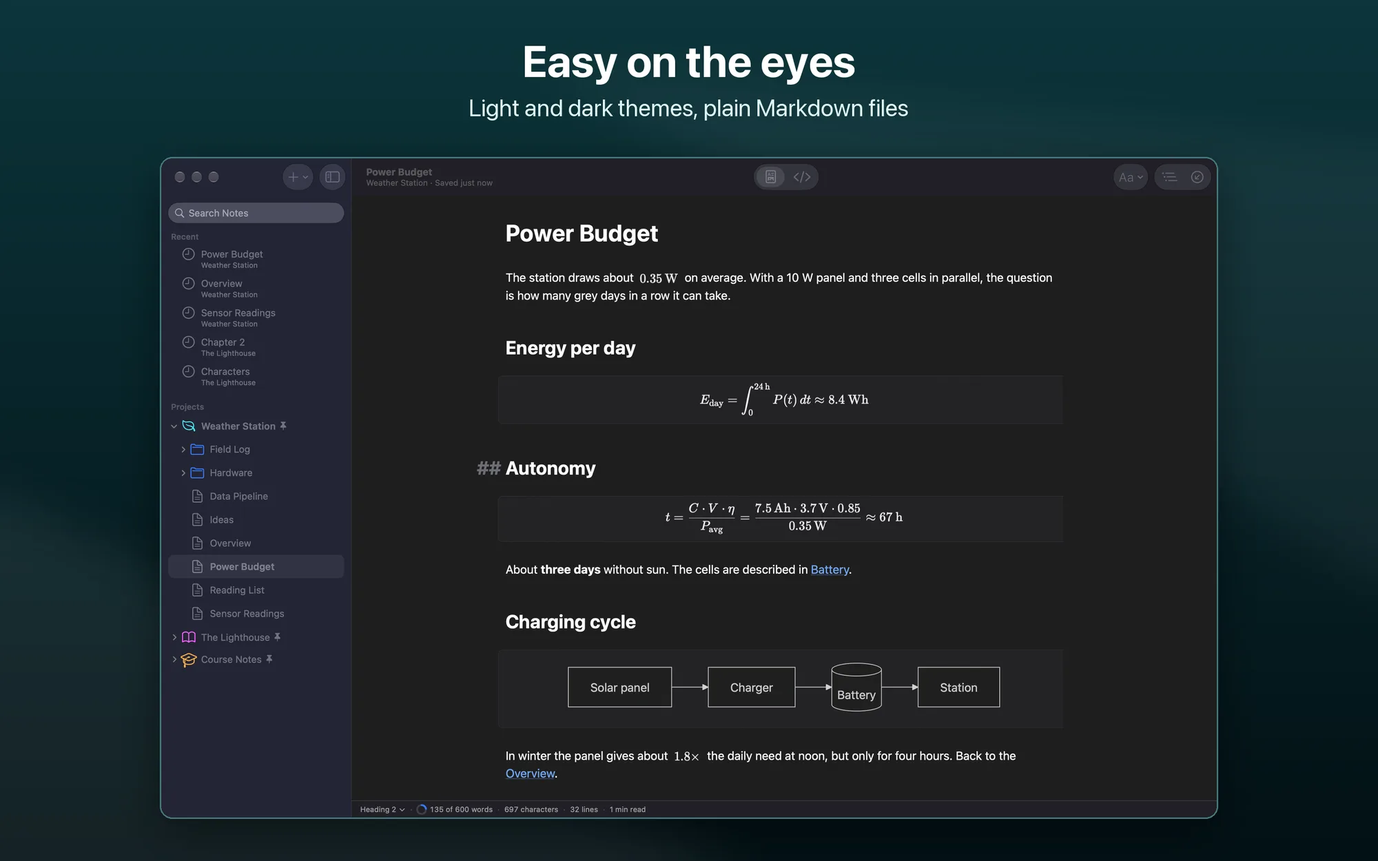
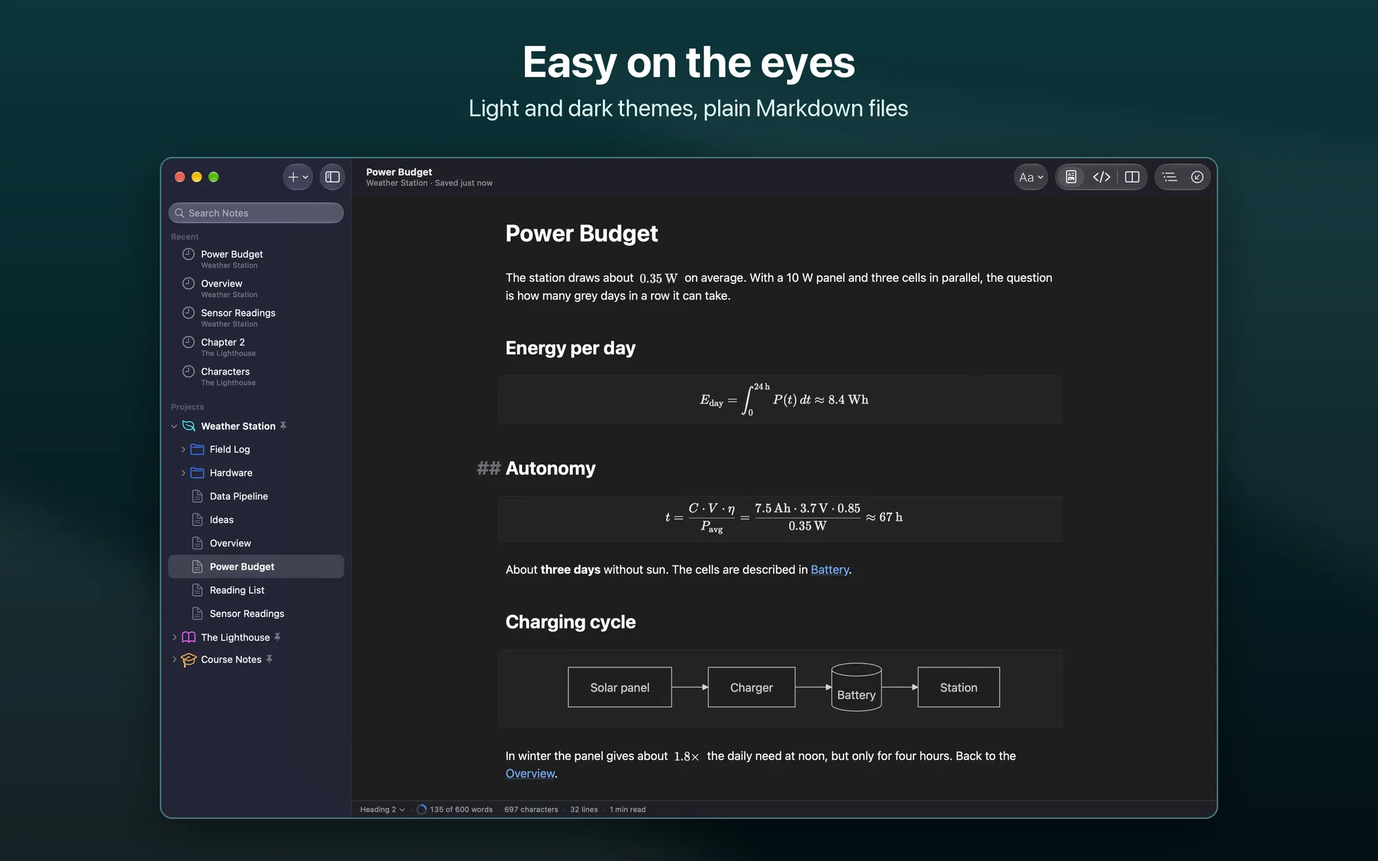
feat(charta): selettore della vista, benvenuto, tasto destro e screenshot nuovi
Pagine e documentazione allineate agli ultimi commit dell'app: selettore
WYSIWYG, codice, codice e anteprima; finestra di benvenuto sul Mac;
avviso per i file cambiati da altre app; menu del tasto destro; barra di
iPhone e iPad con il menu Altro. Screenshot di Mac, iPhone e iPad rifatti.

diff --git a/src/data/docs/charta/formato-tabelle-e-scrittura.md b/src/data/docs/charta/formato-tabelle-e-scrittura.md
@@ -10,7 +10,7 @@ Ogni comando scrive Markdown nel testo: puoi sempre vedere e correggere i segni 
 
 ## Formato
 
-Sul Mac nel menu **Formato**, su iPhone e iPad nel menu con il simbolo «Aa» della barra e nella [barra sopra la tastiera](/progetti/charta/docs/iphone-e-ipad).
+Sul Mac nel menu **Formato** della barra dei menu e della barra della finestra, su iPhone e iPad nel menu **Formato** della barra e nella [barra sopra la tastiera](/progetti/charta/docs/iphone-e-ipad).
 
 - **Grassetto**, **Corsivo**, **Barrato**, **Codice**, **Evidenziato**: con una selezione mettono o tolgono i segni attorno; senza selezione valgono per la parola sotto il cursore, o lasciano i segni vuoti con il cursore in mezzo.
 - **Titolo**: da **Testo normale** a **Titolo 6**, sulle righe selezionate.
@@ -21,7 +21,7 @@ Le scorciatoie sono in [Scorciatoie da tastiera](/progetti/charta/docs/scorciato
 
 ## Inserisci
 
-Sul Mac nel menu **Inserisci**, su iPhone e iPad nel menu «Aa» e nel pulsante **+** sopra la tastiera:
+Sul Mac nel menu **Inserisci** (e nel menu **Formato** della barra), su iPhone e iPad nel menu **Formato** e nel pulsante **+** sopra la tastiera:
 
 - **Link**: `[testo](url)`. Se hai selezionato un indirizzo, diventa la destinazione e il cursore va nel testo.
 - **Collegamento a una nota**: `[[…]]`, con le proposte delle note della cartella.
@@ -30,6 +30,19 @@ Sul Mac nel menu **Inserisci**, su iPhone e iPad nel menu «Aa» e nel pulsante 
 - **Blocco di codice**, **Formula**, **Diagramma Mermaid**: attorno alle righe selezionate o vuoti al cursore.
 - **Nota a piè di pagina**: il richiamo `[^n]` al cursore e la nota in fondo al documento, con il cursore nella nota.
 - **Separatore**: una riga `---`.
+
+## Il menu del tasto destro
+
+Un clic con il tasto destro nel testo (su iPhone e iPad il menu che compare toccando il testo o selezionandolo) mostra prima i comandi di Charta per ciò che sta sotto il cursore, poi quelli del sistema:
+
+- **su un collegamento `[[nota]]`**: **Apri «…»**, **Collegamenti in entrata** e **Rinomina la nota…** (nelle cartelle), sul Mac **Apri in una finestra a parte**; se la nota non esiste, **Crea la nota «…»**. Poi **Copia collegamento** e **Togli il collegamento**;
+- **su un link**: **Apri link** (o **Vai al titolo** per un link interno), **Copia indirizzo**, **Modifica link…**, che seleziona l'indirizzo, e **Togli il collegamento**, che lascia il testo;
+- **con del testo selezionato**, in una cartella: **Crea nota dalla selezione** sposta il testo in una nota nuova accanto e lascia al suo posto il collegamento; **Collega a una nota…** trasforma la selezione in `[[|testo]]` e propone le note; **Cerca nella cartella** la cerca in tutte le note;
+- **in una tabella**: i sottomenu **Riga** (**Inserisci riga sopra**, **Inserisci riga sotto**, **Elimina riga**) e **Colonna** (inserisci a sinistra o a destra, elimina, allinea), e **Formatta tabella**;
+- **in una voce da spuntare**: **Spunta** o **Togli la spunta**, **Spunta tutte** e **Togli tutte le spunte** (anche le voci annidate);
+- **su un titolo**: **Copia collegamento al titolo** (un `[[nota#titolo]]` nelle cartelle, un link `#titolo` in un documento) e **Sposta la sezione in su** o **in giù**, che scambia il titolo e il suo testo con la sezione vicina dello stesso livello;
+- **in un blocco di codice**: **Copia il codice** e il sottomenu **Lingua**; **in una formula o un diagramma**: **Copia il sorgente**; **su un richiamo di nota**: **Vai alla nota a piè di pagina**;
+- **nel testo normale**: i sottomenu **Formato** e **Trasforma in** (testo, titoli, elenchi, citazione).
 
 ## Elenchi e citazioni
 
@@ -46,7 +59,7 @@ Con il cursore in una tabella:
 - **Sposta riga in su/in giù** e **Sposta colonna a sinistra/a destra**, sul Mac con <kbd>⌥</kbd> <kbd>⌘</kbd> e le frecce;
 - **Allinea a sinistra**, **al centro**, **a destra** per la colonna del cursore (dal menu della barra di stato; sul Mac anche in **Formato › Tabella**).
 
-Sul Mac i comandi sono in **Formato › Tabella** e nel menu della barra di stato; su iPhone e iPad nel menu **Modifica tabella** sopra la tastiera e nel menu della barra di stato.
+Sul Mac i comandi sono in **Formato › Tabella**, nel menu della barra di stato e nel tasto destro; su iPhone e iPad nel menu **Modifica tabella** sopra la tastiera, nel menu **Formato** della barra (con il cursore in una tabella), nel menu della barra di stato e nel menu del testo.
 
 ## Incollare
 

diff --git a/src/data/en/docs/charta/formatting-tables-and-writing.md b/src/data/en/docs/charta/formatting-tables-and-writing.md
@@ -10,7 +10,7 @@ Every command writes Markdown into the text: you can always see and fix the mark
 
 ## Format
 
-On the Mac in the **Format** menu; on iPhone and iPad in the "Aa" menu of the toolbar and in the [bar above the keyboard](/en/projects/charta/docs/iphone-and-ipad).
+On the Mac in the **Format** menu of the menu bar and of the window's toolbar; on iPhone and iPad in the toolbar's **Format** menu and in the [bar above the keyboard](/en/projects/charta/docs/iphone-and-ipad).
 
 - **Bold**, **Italic**, **Strikethrough**, **Code**, **Highlight**: with a selection they add or remove the marks around it; without one they apply to the word under the cursor, or leave empty marks with the cursor in between.
 - **Heading**: from **Body Text** to **Heading 6**, on the selected lines.
@@ -21,7 +21,7 @@ Shortcuts are listed in [Keyboard shortcuts](/en/projects/charta/docs/keyboard-s
 
 ## Insert
 
-On the Mac in the **Insert** menu; on iPhone and iPad in the "Aa" menu and in the **+** button above the keyboard:
+On the Mac in the **Insert** menu (and in the toolbar's **Format** menu); on iPhone and iPad in the **Format** menu and in the **+** button above the keyboard:
 
 - **Link**: `[text](url)`. If you selected an address, it becomes the destination and the cursor moves to the text.
 - **Link to a Note**: `[[…]]`, with suggestions from the folder's notes.
@@ -30,6 +30,19 @@ On the Mac in the **Insert** menu; on iPhone and iPad in the "Aa" menu and in th
 - **Code Block**, **Formula**, **Mermaid Diagram**: around the selected lines, or empty at the cursor.
 - **Footnote**: the `[^n]` reference at the cursor and the note at the end of the document, with the cursor in the note.
 - **Divider**: a `---` line.
+
+## The right-click menu
+
+Right-clicking in the text (on iPhone and iPad, the menu that appears when you tap or select text) shows Charta's commands for what's under the cursor first, then the system's:
+
+- **on a `[[note]]` link**: **Open "…"**, **Backlinks** and **Rename Note…** (in folders), on the Mac **Open in a Separate Window**; if the note doesn't exist, **Create Note "…"**. Then **Copy Link** and **Remove Link**;
+- **on a link**: **Open Link** (or **Go to Heading** for an internal link), **Copy Address**, **Edit Link…**, which selects the address, and **Remove Link**, which keeps the text;
+- **with text selected**, in a folder: **New Note from Selection** moves the text into a new note next to this one and leaves the link in its place; **Link to a Note…** turns the selection into `[[|text]]` and suggests notes; **Search in Folder** searches every note for it;
+- **in a table**: the **Row** (**Insert Row Above**, **Insert Row Below**, **Delete Row**) and **Column** (insert left or right, delete, align) submenus, and **Format Table**;
+- **in a checklist item**: **Check** or **Uncheck**, **Check All** and **Uncheck All** (nested items included);
+- **on a heading**: **Copy Link to Heading** (a `[[note#heading]]` in folders, a `#heading` link in a document) and **Move Section Up** or **Down**, which swaps the heading and its text with the neighboring section of the same level;
+- **in a code block**: **Copy Code** and the **Language** submenu; **in math or a diagram**: **Copy Source**; **on a footnote reference**: **Go to Footnote**;
+- **in plain text**: the **Format** and **Turn Into** submenus (text, headings, lists, quote).
 
 ## Lists and quotes
 
@@ -46,7 +59,7 @@ With the cursor in a table:
 - **Move Row Up/Down** and **Move Column Left/Right**, on the Mac with <kbd>⌥</kbd> <kbd>⌘</kbd> and the arrow keys;
 - **Align Left**, **Align Center**, **Align Right** for the cursor's column (from the status bar menu; on the Mac also in **Format › Table**).
 
-On the Mac the commands are in **Format › Table** and in the status bar menu; on iPhone and iPad in the **Edit Table** menu above the keyboard and in the status bar menu.
+On the Mac the commands are in **Format › Table**, in the status bar menu and in the right-click menu; on iPhone and iPad in the **Edit Table** menu above the keyboard, in the toolbar's **Format** menu (with the cursor in a table), in the status bar menu and in the text menu.
 
 ## Pasting
 

diff --git a/src/data/docs/charta/wysiwyg-ed-editor-di-codice.md b/src/data/docs/charta/wysiwyg-ed-editor-di-codice.md
@@ -28,17 +28,19 @@ L'editor di codice mostra il Markdown così com'è, in un carattere a spaziatura
 
 - i colori della sintassi, anche dentro i blocchi di codice di una trentina di linguaggi;
 - i numeri di riga e la riga corrente evidenziata (si spengono in **Impostazioni › Editor**);
-- l'**anteprima**, che si dispone in tre modi: **Solo editor**, **Editor e anteprima** affiancati, **Solo anteprima**.
+- l'**anteprima**, accanto al testo (**Codice e anteprima**) o da sola (**Solo anteprima**).
 
-Sul Mac i comandi sono nel menu **Vista**: **Mostra anteprima affiancata** (<kbd>⌥</kbd> <kbd>⌘</kbd> <kbd>P</kbd>) e **Solo anteprima** (<kbd>⌥</kbd> <kbd>⇧</kbd> <kbd>⌘</kbd> <kbd>P</kbd>). Il divisore tra editor e anteprima si trascina. Su iPhone l'anteprima sta sotto il testo, su iPad accanto; la disposizione si sceglie dal pulsante con l'occhio nella barra.
+Sul Mac i comandi sono anche nel menu **Vista**: **Mostra anteprima affiancata** (<kbd>⌥</kbd> <kbd>⌘</kbd> <kbd>P</kbd>) e **Solo anteprima** (<kbd>⌥</kbd> <kbd>⇧</kbd> <kbd>⌘</kbd> <kbd>P</kbd>); su iPhone e iPad **Solo anteprima** è nel menu **Altro** (…) della barra. Il divisore tra editor e anteprima si trascina. Su iPhone l'anteprima sta sotto il testo, su iPad accanto.
 
 Con **Scorrimento sincronizzato** attivo, testo e anteprima scorrono insieme in entrambe le direzioni. Sul Mac un doppio clic su un blocco dell'anteprima porta il cursore alla sua riga nel testo. Nell'anteprima si spuntano anche le caselle, e i collegamenti `[[nota]]` aprono la nota.
 
 L'anteprima usa uno dei tre stili di **Impostazioni › Anteprima › Stile**: **GitHub**, **Carta** (con grazie, titoli centrati, per i testi lunghi) e **Compatto**. Lo stesso stile vale per l'esportazione in HTML e PDF. L'HTML scritto nei documenti viene mostrato senza script.
 
-## Passare da un modo all'altro
+## Il selettore della vista
 
-<kbd>⌘</kbd> <kbd>E</kbd> (anche su iPad con la tastiera) o il pulsante dei due modi nella barra. Il cursore resta nello stesso punto del testo. Il modo predefinito si sceglie in **Impostazioni › Generali › Apri i documenti in**; in una cartella, le [impostazioni del progetto](/progetti/charta/docs/cartelle-e-note-collegate) possono sceglierne un altro per la prima nota.
+Il selettore della vista ha tre scelte: **WYSIWYG**, **Editor di codice** e **Codice e anteprima**. Sta a destra nella barra in alto, come tre icone; su iPhone è nel menu **Altro** (…). Con **Impostazioni › Generali › Selettore della vista** › **Nella barra di stato** passa in basso a destra, con le parole brevi **WYSIWYG**, **Codice** e **Affiancati** (su iPhone un menu). In **Solo anteprima** il selettore non segna nessuna scelta.
+
+<kbd>⌘</kbd> <kbd>E</kbd> (anche su iPad con la tastiera) passa dal WYSIWYG all'editor di codice e ritorno, e riprende la disposizione dell'anteprima che avevi. Il cursore resta nello stesso punto del testo. Il modo predefinito si sceglie in **Impostazioni › Generali › Apri i documenti in**; in una cartella, le [impostazioni del progetto](/progetti/charta/docs/cartelle-e-note-collegate) possono sceglierne un altro per la prima nota.
 
 ## Struttura dei titoli e collegamenti in entrata
 
@@ -51,4 +53,5 @@ In fondo alla finestra:
 - a sinistra il **tipo di blocco al cursore** (Testo, Titolo 2, Tabella, Codice…), con un menu che cambia: titoli, elenchi e citazione per il testo, i comandi per le tabelle, la lingua per i blocchi di codice;
 - l'**obiettivo di parole** o il conteggio delle parole (vedi [Formato, tabelle e scrittura](/progetti/charta/docs/formato-tabelle-e-scrittura));
 - caratteri, righe e minuti di lettura (su iPhone solo parole e tempo di lettura);
-- nell'editor di codice con l'anteprima, l'interruttore dello scorrimento sincronizzato.
+- nell'editor di codice con l'anteprima, l'interruttore dello scorrimento sincronizzato;
+- a destra, se l'hai scelto, il selettore della vista.

diff --git a/src/data/en/docs/charta/wysiwyg-and-code-editor.md b/src/data/en/docs/charta/wysiwyg-and-code-editor.md
@@ -28,17 +28,19 @@ The code editor shows the Markdown itself, in a monospaced font, with:
 
 - syntax colors, including inside code blocks in about thirty languages;
 - line numbers and the current line highlighted (turn them off in **Settings › Editor**);
-- the **preview**, in three layouts: **Editor Only**, **Editor and Preview** side by side, **Preview Only**.
+- the **preview**, beside the text (**Code and Preview**) or on its own (**Preview Only**).
 
-On the Mac the commands are in the **View** menu: **Show Side-by-Side Preview** (<kbd>⌥</kbd> <kbd>⌘</kbd> <kbd>P</kbd>) and **Preview Only** (<kbd>⌥</kbd> <kbd>⇧</kbd> <kbd>⌘</kbd> <kbd>P</kbd>). Drag the divider between editor and preview to resize them. On iPhone the preview sits below the text, on iPad beside it; choose the layout from the eye button in the toolbar.
+On the Mac the commands are also in the **View** menu: **Show Side-by-Side Preview** (<kbd>⌥</kbd> <kbd>⌘</kbd> <kbd>P</kbd>) and **Preview Only** (<kbd>⌥</kbd> <kbd>⇧</kbd> <kbd>⌘</kbd> <kbd>P</kbd>); on iPhone and iPad **Preview Only** is in the toolbar's **More** (…) menu. Drag the divider between editor and preview to resize them. On iPhone the preview sits below the text, on iPad beside it.
 
 With **Synchronized Scrolling** on, text and preview scroll together both ways. On the Mac, double-clicking a block in the preview moves the cursor to its line in the text. You can also check boxes in the preview, and `[[note]]` links open the note.
 
 The preview uses one of the three styles in **Settings › Preview › Style**: **GitHub**, **Paper** (serif, centered headings, for long texts) and **Compact**. The same style is used when exporting to HTML and PDF. HTML written in documents is shown without scripts.
 
-## Switching modes
+## The view switcher
 
-<kbd>⌘</kbd> <kbd>E</kbd> (also on iPad with a keyboard) or the two-mode button in the toolbar. The cursor stays at the same place in the text. The default mode is set in **Settings › General › Open documents in**; in a folder, the [project settings](/en/projects/charta/docs/folders-and-linked-notes) can choose another one for the first note.
+The view switcher has three choices: **WYSIWYG**, **Code Editor** and **Code and Preview**. It sits on the right of the toolbar, as three icons; on iPhone it's in the **More** (…) menu. With **Settings › General › View Switcher** › **In the Status Bar** it moves to the bottom right, with the short words **WYSIWYG**, **Code** and **Side by Side** (a menu on iPhone). In **Preview Only** the switcher marks no choice.
+
+<kbd>⌘</kbd> <kbd>E</kbd> (also on iPad with a keyboard) switches between WYSIWYG and the code editor, and brings back the preview layout you had. The cursor stays at the same place in the text. The default mode is set in **Settings › General › Open documents in**; in a folder, the [project settings](/en/projects/charta/docs/folders-and-linked-notes) can choose another one for the first note.
 
 ## Heading outline and backlinks
 
@@ -51,4 +53,5 @@ At the bottom of the window:
 - on the left, the **block type at the cursor** (Text, Heading 2, Table, Code…), with a menu that changes: headings, lists and quote for text, table commands for tables, the language for code blocks;
 - the **word goal** or the word count (see [Formatting, tables and writing](/en/projects/charta/docs/formatting-tables-and-writing));
 - characters, lines and reading time (on iPhone only words and reading time);
-- in the code editor with the preview, the synchronized scrolling switch.
+- in the code editor with the preview, the synchronized scrolling switch;
+- on the right, if you chose it, the view switcher.

diff --git a/src/data/docs/charta/iphone-e-ipad.md b/src/data/docs/charta/iphone-e-ipad.md
@@ -19,12 +19,14 @@ I file `.md` si aprono anche toccandoli nell'app File. Nella finestra di un docu
 
 ## La barra della finestra
 
-- il pulsante dei due modi, **WYSIWYG** ed **Editor di codice**;
-- **Aa**: il menu **Formato**, con stili, titoli, elenchi, inserimenti e i comandi delle tabelle;
-- l'occhio, menu **Vista**: la disposizione dell'anteprima (**Solo editor**, **Editor e anteprima**, **Solo anteprima**), **Scorrimento sincronizzato**, **Struttura**, le esportazioni e **Stampa…**;
-- nelle cartelle, **Collegamenti in entrata**.
+A destra del titolo, nello stesso ordine del Mac:
 
-Le **Impostazioni** sono nel menu della barra di un documento e nel menu **Altro** (…) di una cartella, accanto a **Grafo delle note**, **Nuova cartella** e **Ordina per**.
+- **Formato**: stili, titoli, elenchi, inserimenti e, con il cursore in una tabella, i comandi delle tabelle;
+- su iPad, il **selettore della vista**: **WYSIWYG**, **Editor di codice**, **Codice e anteprima** (se non l'hai spostato nella barra di stato);
+- su iPad, **Struttura**; nelle cartelle, **Collegamenti in entrata**;
+- **Altro** (…): **Solo anteprima**, **Scorrimento sincronizzato** (nell'editor di codice), le esportazioni, **Stampa…** e, nei documenti, **Impostazioni**. Su iPhone, dove c'è meno posto, ci sono anche il selettore della vista e **Struttura**.
+
+Nelle cartelle le **Impostazioni** sono nel menu **Altro** (…) della barra laterale, accanto a **Grafo delle note**, **Nuova cartella** e **Ordina per**.
 
 Su iPhone l'anteprima sta sotto il testo e la struttura e i collegamenti in entrata si aprono in un foglio; su iPad l'anteprima sta accanto e la barra laterale resta affiancata al testo.
 
@@ -41,7 +43,7 @@ Quando scrivi, sopra la tastiera compaiono, da sinistra:
 
 Mentre scrivi un collegamento `[[…`, la barra mostra al loro posto le note (o i titoli, dopo `#`) che corrispondono: un tocco completa il collegamento.
 
-Con del testo selezionato, il menu di modifica ha anche **Formato** (grassetto, corsivo, barrato, codice, link); su un link c'è **Apri link**.
+Il menu che compare toccando o selezionando il testo ha prima i comandi di Charta per ciò che sta sotto il cursore, gli stessi del tasto destro sul Mac: collegamenti, tabelle, voci da spuntare, titoli, codice, **Formato** e **Trasforma in**. Vedi [Formato, tabelle e scrittura](/progetti/charta/docs/formato-tabelle-e-scrittura).
 
 ## Con una tastiera esterna
 
@@ -56,12 +58,12 @@ Tieni premuto <kbd>⌘</kbd> su iPad per vedere l'elenco.
 
 | | Mac | iPhone e iPad |
 |---|---|---|
-| Menu Formato e Inserisci con scorciatoie | Sì | Menu «Aa» e barra sopra la tastiera |
+| Finestra di benvenuto | Sì | Schermata iniziale |
+| Menu Formato e Inserisci con scorciatoie | Sì | Menu Formato della barra e barra sopra la tastiera |
 | Modalità Focus e Macchina da scrivere | Sì | No |
 | Documenti in schede | Sì | No |
 | Ingrandisci e riduci testo da tastiera | Sì | Dimensione nelle Impostazioni |
 | Evidenzia la riga corrente (opzione) | Sì | Sempre attiva |
-| Ricarica le note cambiate da altre app (opzione) | Sì | Sempre attiva |
 | Copia collegamento [[…]] e Mostra nel Finder | Sì | No |
 | Immagini incollate in un documento aperto da solo | Sì, dopo il permesso sulla cartella | Solo nelle cartelle |
 | Esportazione | Pannello di salvataggio | Foglio di condivisione |

diff --git a/src/data/projects/charta.md b/src/data/projects/charta.md
@@ -21,15 +21,17 @@ Charta è un editor Markdown per Mac, iPhone e iPad che ti fa scrivere lo stesso
 ## Funzionalità principali
 
 - **WYSIWYG**: titoli, grassetto, corsivo, link ed elenchi si vedono formattati; i segni compaiono solo dove c'è il cursore; tabelle, formule, diagrammi e immagini sono disegnati nel testo e le caselle delle liste di cose da fare si spuntano con un clic o un tocco
-- **Editor di codice con anteprima**: colori della sintassi, numeri di riga e riga corrente evidenziata; anteprima affiancata, solo editor o solo anteprima, con lo scorrimento sincronizzato. Sul Mac un doppio clic nell'anteprima porta alla riga del testo
+- **Editor di codice con anteprima**: colori della sintassi, numeri di riga e riga corrente evidenziata; un selettore della vista passa tra WYSIWYG, codice e codice con l'anteprima accanto, con lo scorrimento sincronizzato. Sul Mac un doppio clic nell'anteprima porta alla riga del testo
 - **Formule e diagrammi**: formule LaTeX nel testo e a parte, disegnate con KaTeX, e diagrammi Mermaid, inclusi nell'app e senza bisogno di rete
 - **Markdown esteso**: tabelle, voci da spuntare, note a piè di pagina, front matter YAML, testo evidenziato, sommario `[TOC]`, citazioni speciali come `> [!NOTE]` e codice colorato in una trentina di linguaggi
 - **Note collegate**: una cartella si apre come progetto, con l'albero delle note e la ricerca nel testo di tutte; collegamenti `[[nota]]` completati mentre scrivi, collegamenti in entrata, link aggiornati quando rinomini una nota e grafo delle note
 - **Progetti**: progetti fissati e note recenti, ciascun progetto con il suo nome, colore e simbolo; Vai alla nota (<kbd>⌘</kbd> <kbd>T</kbd>) apre qualsiasi nota per nome
 - **Trova e sostituisci** in tutta la cartella, anche con parole intere ed espressioni regolari
+- **Tasto destro**: comandi per ciò che sta sotto il cursore, come aprire o rinominare una nota collegata, creare una nota dalla selezione, aggiungere righe e colonne, spuntare tutte le voci o spostare una sezione
+- **File cambiati da altre app**: Charta avvisa e chiede se ricaricare o tenere la versione aperta
 - **Scrivere più in fretta**: Invio continua gli elenchi, Tab passa alla cella successiva di una tabella, il testo copiato da una pagina web diventa Markdown, le immagini incollate o trascinate si salvano accanto alla nota; obiettivo di parole salvato nel file, conteggio delle parole e tempo di lettura
 - **Esporta e stampa**: HTML, PDF, Word (DOCX) ed EPUB, con lo stile dell'anteprima (GitHub, Carta o Compatto); in Word ed EPUB formule e diagrammi diventano immagini
-- **Solo sul Mac**: menu Formato e Inserisci con le scorciatoie da tastiera, Modalità Focus e Macchina da scrivere, documenti in schede
+- **Solo sul Mac**: finestra di benvenuto con progetti e documenti recenti, menu Formato e Inserisci con le scorciatoie da tastiera, Modalità Focus e Macchina da scrivere, documenti in schede
 - **Solo su iPhone e iPad**: barra sopra la tastiera con formato, elenchi, link, rientri e un menu per inserire tabelle, codice, formule e diagrammi; esportazioni condivise con AirDrop, Mail o File
 - **Privata**: nessun account e nessun dato raccolto, i testi restano sul dispositivo; interfaccia in italiano e in inglese, tema chiaro e scuro
 - **Nessun abbonamento**: gratuita, senza pubblicità e senza acquisti in-app

diff --git a/src/data/docs/charta/index.md b/src/data/docs/charta/index.md
@@ -13,12 +13,14 @@ Charta è un editor Markdown per Mac, iPhone e iPad. Lavora su normali file di t
 - **WYSIWYG**: vedi il testo già formattato. I segni del Markdown (`**`, `#`, `[…](…)`) compaiono solo dove c'è il cursore e spariscono quando ti sposti. Tabelle, formule, diagrammi e immagini sono disegnati nel testo.
 - **Editor di codice**: il Markdown così com'è, con i colori della sintassi e i numeri di riga, e l'anteprima accanto o sotto.
 
-Si passa da un modo all'altro con <kbd>⌘</kbd> <kbd>E</kbd> o con il pulsante nella barra della finestra. Il modo con cui si aprono i documenti si sceglie in **Impostazioni › Generali › Apri i documenti in**. Dettagli in [WYSIWYG ed editor di codice](/progetti/charta/docs/wysiwyg-ed-editor-di-codice).
+Si passa da un modo all'altro con <kbd>⌘</kbd> <kbd>E</kbd> o con il selettore della vista nella barra della finestra, che ha anche **Codice e anteprima**. Il modo con cui si aprono i documenti si sceglie in **Impostazioni › Generali › Apri i documenti in**. Dettagli in [WYSIWYG ed editor di codice](/progetti/charta/docs/wysiwyg-ed-editor-di-codice).
 
 ## File singoli e cartelle
 
-- **Un file**: sul Mac con **Archivio › Apri…** o dal Finder, su iPhone e iPad dall'app File o dalla schermata iniziale di Charta.
+- **Un file**: sul Mac dalla finestra di benvenuto, con **Archivio › Apri…** o dal Finder; su iPhone e iPad dall'app File o dalla schermata iniziale di Charta.
 - **Una cartella**: con **Archivio › Apri cartella…** (<kbd>⇧</kbd> <kbd>⌘</kbd> <kbd>O</kbd>) sul Mac, o **Apri cartella** nella schermata iniziale su iPhone e iPad. La cartella diventa un progetto, con l'albero delle note, la ricerca, i collegamenti `[[nota]]` e il grafo. Vedi [Cartelle e note collegate](/progetti/charta/docs/cartelle-e-note-collegate).
+
+Sul Mac, all'avvio, la finestra **Benvenuto in Charta** ha **Nuovo documento**, **Apri cartella…** e, a destra, i progetti e i documenti recenti; si riapre da **Finestra › Benvenuto in Charta** (<kbd>⇧</kbd> <kbd>⌘</kbd> <kbd>1</kbd>).
 
 Nelle cartelle le note si salvano da sole poco dopo ogni modifica. Sul Mac, sotto il titolo della finestra, compare lo stato del salvataggio (per esempio «Salvato 2 min fa»).
 
@@ -26,7 +28,7 @@ Nelle cartelle le note si salvano da sole poco dopo ogni modifica. Sul Mac, sott
 
 - [WYSIWYG ed editor di codice](/progetti/charta/docs/wysiwyg-ed-editor-di-codice): i due modi, l'anteprima, la struttura dei titoli e la barra di stato
 - [Markdown supportato](/progetti/charta/docs/markdown-supportato): tabelle, formule, diagrammi, note, front matter e le altre estensioni
-- [Formato, tabelle e scrittura](/progetti/charta/docs/formato-tabelle-e-scrittura): menu, elenchi, tabelle, incolla, obiettivo di parole, Focus e Macchina da scrivere
+- [Formato, tabelle e scrittura](/progetti/charta/docs/formato-tabelle-e-scrittura): menu, tasto destro, elenchi, tabelle, incolla, obiettivo di parole, Focus e Macchina da scrivere
 - [Cartelle e note collegate](/progetti/charta/docs/cartelle-e-note-collegate): progetti, collegamenti, grafo, ricerca e immagini
 - [Esportazione e stampa](/progetti/charta/docs/esportazione-e-stampa): HTML, PDF, Word ed EPUB
 - [iPhone e iPad](/progetti/charta/docs/iphone-e-ipad): la barra sopra la tastiera e le differenze dal Mac

diff --git a/src/data/en/docs/charta/index.md b/src/data/en/docs/charta/index.md
@@ -13,12 +13,14 @@ Charta is a Markdown editor for Mac, iPhone and iPad. It works on plain `.md` te
 - **WYSIWYG**: you see your text already formatted. Markdown marks (`**`, `#`, `[…](…)`) show up only where the cursor is and disappear when you move on. Tables, math, diagrams and images are drawn in the text.
 - **Code editor**: the Markdown itself, with syntax colors and line numbers, and the preview beside or below it.
 
-Switch between the two with <kbd>⌘</kbd> <kbd>E</kbd> or with the button in the window's toolbar. The mode documents open in is set in **Settings › General › Open documents in**. Details in [WYSIWYG and code editor](/en/projects/charta/docs/wysiwyg-and-code-editor).
+Switch between the two with <kbd>⌘</kbd> <kbd>E</kbd> or with the view switcher in the window's toolbar, which also has **Code and Preview**. The mode documents open in is set in **Settings › General › Open documents in**. Details in [WYSIWYG and code editor](/en/projects/charta/docs/wysiwyg-and-code-editor).
 
 ## Single files and folders
 
-- **A file**: on the Mac with **File › Open…** or from Finder; on iPhone and iPad from the Files app or from Charta's launch screen.
+- **A file**: on the Mac from the welcome window, with **File › Open…** or from Finder; on iPhone and iPad from the Files app or from Charta's launch screen.
 - **A folder**: with **File › Open Folder…** (<kbd>⇧</kbd> <kbd>⌘</kbd> <kbd>O</kbd>) on the Mac, or **Open Folder** on the launch screen on iPhone and iPad. The folder becomes a project, with a note tree, search, `[[note]]` links and the graph. See [Folders and linked notes](/en/projects/charta/docs/folders-and-linked-notes).
+
+On the Mac, at launch, the **Welcome to Charta** window has **New Document**, **Open Folder…** and, on the right, recent projects and documents; reopen it from **Window › Welcome to Charta** (<kbd>⇧</kbd> <kbd>⌘</kbd> <kbd>1</kbd>).
 
 In folders, notes save themselves shortly after each change. On the Mac, the save status appears under the window title (for example "Saved 2 min ago").
 
@@ -26,7 +28,7 @@ In folders, notes save themselves shortly after each change. On the Mac, the sav
 
 - [WYSIWYG and code editor](/en/projects/charta/docs/wysiwyg-and-code-editor): the two modes, the preview, the heading outline and the status bar
 - [Supported Markdown](/en/projects/charta/docs/supported-markdown): tables, math, diagrams, footnotes, front matter and the other extensions
-- [Formatting, tables and writing](/en/projects/charta/docs/formatting-tables-and-writing): menus, lists, tables, paste, word goal, Focus and Typewriter Mode
+- [Formatting, tables and writing](/en/projects/charta/docs/formatting-tables-and-writing): menus, right-click, lists, tables, paste, word goal, Focus and Typewriter Mode
 - [Folders and linked notes](/en/projects/charta/docs/folders-and-linked-notes): projects, links, graph, search and images
 - [Export and print](/en/projects/charta/docs/export-and-print): HTML, PDF, Word and EPUB
 - [iPhone and iPad](/en/projects/charta/docs/iphone-and-ipad): the bar above the keyboard and the differences from the Mac

diff --git a/src/data/en/projects/charta.md b/src/data/en/projects/charta.md
@@ -21,15 +21,17 @@ Charta is a Markdown editor for Mac, iPhone and iPad that lets you write the sam
 ## Key Features
 
 - **WYSIWYG**: headings, bold, italics, links and lists appear formatted; marks show up only where the cursor is; tables, math, diagrams and images are drawn in the text, and to-do items are checked off with a click or a tap
-- **Code editor with preview**: syntax colors, line numbers and the current line highlighted; preview side by side, editor only or preview only, with synchronized scrolling. On the Mac, double-clicking the preview jumps to that line of text
+- **Code editor with preview**: syntax colors, line numbers and the current line highlighted; a view switcher moves between WYSIWYG, code, and code with the preview beside it, with synchronized scrolling. On the Mac, double-clicking the preview jumps to that line of text
 - **Math and diagrams**: LaTeX math inline and in blocks, rendered with KaTeX, and Mermaid diagrams, bundled in the app and working without a network
 - **Extended Markdown**: tables, checklists, footnotes, YAML front matter, highlighted text, a `[TOC]` table of contents, callouts like `> [!NOTE]` and code highlighting for about thirty languages
 - **Linked notes**: open a folder as a project, with a note tree and full-text search; `[[note]]` links completed as you type, backlinks, links that update when you rename a note, and a note graph
 - **Projects**: pinned projects and recent notes, each project with its own name, color and symbol; Go to Note (<kbd>⌘</kbd> <kbd>T</kbd>) opens any note by name
 - **Find and replace** across the whole folder, with whole words and regular expressions
+- **Right-click**: commands for what's under the cursor, such as opening or renaming a linked note, creating a note from the selection, adding rows and columns, checking every item or moving a section
+- **Files changed by other apps**: Charta tells you and asks whether to reload or keep the open version
 - **Write faster**: Return continues lists, Tab moves to the next table cell, text copied from a web page becomes Markdown, pasted or dropped images are saved next to the note; a word goal saved in the file, word count and reading time
 - **Export and print**: HTML, PDF, Word (DOCX) and EPUB, in the preview style of your choice (GitHub, Paper or Compact); in Word and EPUB, math and diagrams become images
-- **Mac only**: Format and Insert menus with keyboard shortcuts, Focus Mode and Typewriter Mode, documents in tabs
+- **Mac only**: a welcome window with recent projects and documents, Format and Insert menus with keyboard shortcuts, Focus Mode and Typewriter Mode, documents in tabs
 - **iPhone and iPad only**: a bar above the keyboard with formatting, lists, links, indentation and a menu to insert tables, code, math and diagrams; exports shared with AirDrop, Mail or Files
 - **Private**: no account and no data collected, your writing stays on your device; interface in English and Italian, light and dark themes
 - **No subscription**: free, with no ads and no in-app purchases

diff --git a/src/data/en/docs/charta/iphone-and-ipad.md b/src/data/en/docs/charta/iphone-and-ipad.md
@@ -19,12 +19,14 @@ At launch Charta shows your documents like the Files app, with two actions:
 
 ## The toolbar
 
-- the two-mode button, **WYSIWYG** and **Code Editor**;
-- **Aa**: the **Format** menu, with styles, headings, lists, insert items and table commands;
-- the eye, **View** menu: the preview layout (**Editor Only**, **Editor and Preview**, **Preview Only**), **Synchronized Scrolling**, **Outline**, the exports and **Print…**;
-- in folders, **Backlinks**.
+To the right of the title, in the same order as on the Mac:
 
-**Settings** is in a document's toolbar menu and in a folder's **More** (…) menu, next to **Note Graph**, **New Folder** and **Sort By**.
+- **Format**: styles, headings, lists, insert items and, with the cursor in a table, table commands;
+- on iPad, the **view switcher**: **WYSIWYG**, **Code Editor**, **Code and Preview** (unless you moved it to the status bar);
+- on iPad, **Outline**; in folders, **Backlinks**;
+- **More** (…): **Preview Only**, **Synchronized Scrolling** (in the code editor), the exports, **Print…** and, in documents, **Settings**. On iPhone, where there's less room, it also holds the view switcher and **Outline**.
+
+In folders, **Settings** is in the sidebar's **More** (…) menu, next to **Note Graph**, **New Folder** and **Sort By**.
 
 On iPhone the preview sits below the text, and the outline and backlinks open in a sheet; on iPad the preview sits beside the text and the sidebar stays alongside it.
 
@@ -41,7 +43,7 @@ While you type, the bar above the keyboard shows, from the left:
 
 While you type a `[[…` link, the bar shows the matching notes instead (or headings, after `#`): tap one to complete the link.
 
-With text selected, the edit menu also has **Format** (bold, italic, strikethrough, code, link); on a link there's **Open Link**.
+The menu that appears when you tap or select text starts with Charta's commands for what's under the cursor, the same as right-clicking on the Mac: links, tables, checklist items, headings, code, **Format** and **Turn Into**. See [Formatting, tables and writing](/en/projects/charta/docs/formatting-tables-and-writing).
 
 ## With a hardware keyboard
 
@@ -56,12 +58,12 @@ Hold <kbd>⌘</kbd> on iPad to see the list.
 
 | | Mac | iPhone and iPad |
 |---|---|---|
-| Format and Insert menus with shortcuts | Yes | "Aa" menu and the bar above the keyboard |
+| Welcome window | Yes | Launch screen |
+| Format and Insert menus with shortcuts | Yes | Toolbar Format menu and the bar above the keyboard |
 | Focus Mode and Typewriter Mode | Yes | No |
 | Documents in tabs | Yes | No |
 | Bigger and smaller text from the keyboard | Yes | Size in Settings |
 | Highlight current line (option) | Yes | Always on |
-| Reload notes changed by other apps (option) | Yes | Always on |
 | Copy Link [[…]] and Show in Finder | Yes | No |
 | Images pasted into a document opened on its own | Yes, after allowing the folder | Folders only |
 | Export | Save panel | Share sheet |

diff --git a/src/data/docs/charta/cartelle-e-note-collegate.md b/src/data/docs/charta/cartelle-e-note-collegate.md
@@ -22,9 +22,17 @@ Se una cartella è stata spostata o non è più raggiungibile, la finestra lo di
 
 ## Note e cartelle
 
-Il pulsante **+** (**Nuovo**) crea una **Nuova nota** (<kbd>⌥</kbd> <kbd>⌘</kbd> <kbd>N</kbd> sul Mac) o una **Nuova cartella**, e ha **Ordina per** **Nome** o **Data di modifica**. Il menu contestuale di una nota o di una cartella ha, sul Mac, **Nuova nota qui**, **Nuova cartella qui**, **Apri in una finestra a parte**, **Apri con il progetto**, **Copia collegamento [[…]]**, **Rinomina…**, **Mostra nel Finder** e **Sposta nel Cestino**; su iPhone e iPad **Nuova nota qui**, **Apri con il progetto**, **Rinomina** ed **Elimina**. Le note eliminate vanno nel Cestino quando il sistema lo consente.
+Il pulsante **+** (**Nuovo**) crea una **Nuova nota** (<kbd>⌥</kbd> <kbd>⌘</kbd> <kbd>N</kbd> sul Mac) o una **Nuova cartella**, e ha **Ordina per** **Nome** o **Data di modifica**. Nel testo, il tasto destro su un collegamento `[[nota]]` apre, rinomina o crea la nota e mostra i suoi collegamenti in entrata; su una selezione crea una nota nuova con quel testo (vedi [Formato, tabelle e scrittura](/progetti/charta/docs/formato-tabelle-e-scrittura)).
 
-Le note si salvano da sole poco dopo l'ultimo tasto. Se un'altra app cambia una nota che non ha modifiche da salvare, Charta la ricarica (sul Mac si può spegnere in **Impostazioni › Generali › Ricarica le note cambiate da altre app**).
+Il menu contestuale di una nota o di una cartella nella barra ha, sul Mac, **Nuova nota qui**, **Nuova cartella qui**, **Apri in una finestra a parte**, **Apri con il progetto**, **Copia collegamento [[…]]**, **Rinomina…**, **Mostra nel Finder** e **Sposta nel Cestino**; su iPhone e iPad **Nuova nota qui**, **Apri con il progetto**, **Rinomina** ed **Elimina**. Le note eliminate vanno nel Cestino quando il sistema lo consente.
+
+Le note si salvano da sole poco dopo l'ultimo tasto.
+
+### File cambiati da altre app
+
+Se un'altra app (o un servizio di sincronizzazione) cambia il file aperto, Charta lo dice: «… è stato cambiato da un'altra app», con **Ricarica** per vedere la versione nuova o **Tieni questa versione** per riscrivere il file con il testo di Charta. Se hai modifiche non ancora salvate, l'avviso lo dice, e il salvataggio automatico della nota aspetta la tua risposta. La ricarica cambia solo il tratto diverso e si può annullare. Vale per le note delle cartelle e per i documenti aperti da soli, su Mac, iPhone e iPad.
+
+Con **Impostazioni › Generali › Ricarica senza chiedere i file cambiati da altre app** (spenta all'inizio), un file senza modifiche da salvare si ricarica da solo; con modifiche da salvare Charta chiede sempre.
 
 ## Collegamenti tra le note
 

diff --git a/src/data/docs/charta/impostazioni.md b/src/data/docs/charta/impostazioni.md
@@ -6,7 +6,7 @@ order: 8
 section: "Riferimento"
 ---
 
-Sul Mac: **Charta › Impostazioni…** (<kbd>⌘</kbd> <kbd>,</kbd>), con le schede **Generali**, **Editor** e **Anteprima**. Su iPhone e iPad: **Impostazioni** nel menu della barra di un documento o nel menu **Altro** di una cartella, in un'unica pagina. Le impostazioni valgono per tutti i documenti; quelle di un singolo progetto sono in [Cartelle e note collegate](/progetti/charta/docs/cartelle-e-note-collegate).
+Sul Mac: **Charta › Impostazioni…** (<kbd>⌘</kbd> <kbd>,</kbd>), con le schede **Generali**, **Editor** e **Anteprima**. Su iPhone e iPad: **Impostazioni** nel menu **Altro** (…) della barra di un documento o della barra laterale di una cartella, in un'unica pagina. Le impostazioni valgono per tutti i documenti; quelle di un singolo progetto sono in [Cartelle e note collegate](/progetti/charta/docs/cartelle-e-note-collegate).
 
 ## Generali
 
@@ -15,8 +15,10 @@ Sul Mac: **Charta › Impostazioni…** (<kbd>⌘</kbd> <kbd>,</kbd>), con le sc
 | Apri i documenti in | WYSIWYG, Editor di codice | WYSIWYG |
 | Apri i documenti in schede (Mac) | i documenti si aprono come schede della finestra attiva | attiva |
 | Aspetto | Sistema, Chiaro, Scuro | Sistema |
+| All'avvio (Mac) | Finestra di benvenuto, Documento nuovo, Niente: cosa mostra Charta quando non riapre finestre né file | Finestra di benvenuto |
+| Selettore della vista | Nella barra in alto, Nella barra di stato | Nella barra in alto |
 | Lingua | Sistema, Italiano, English | Sistema |
-| Ricarica le note cambiate da altre app (Mac) | nelle cartelle, una nota senza modifiche da salvare si ricarica | attiva |
+| Ricarica senza chiedere i file cambiati da altre app | un file senza modifiche da salvare si ricarica da solo; spenta, Charta chiede; con modifiche da salvare chiede sempre | spenta |
 
 La lingua nuova vale dal prossimo avvio: sul Mac c'è **Riavvia ora**, su iPhone e iPad basta chiudere e riaprire Charta.
 
@@ -58,7 +60,7 @@ Sul Mac <kbd>⌘</kbd> <kbd>+</kbd> e <kbd>⌘</kbd> <kbd>-</kbd> cambiano insie
 | Nell'editor di codice (Mac) | Solo editor, Editor e anteprima affiancati, Solo anteprima | affiancati |
 | Scorrimento sincronizzato | | attivo |
 
-Lo stile vale anche per l'esportazione in HTML e PDF. Su iPhone e iPad la disposizione dell'anteprima si sceglie dal menu con l'occhio della barra.
+Lo stile vale anche per l'esportazione in HTML e PDF. Su iPhone e iPad la disposizione si sceglie con il selettore della vista.
 
 ## Riconoscimenti
 
